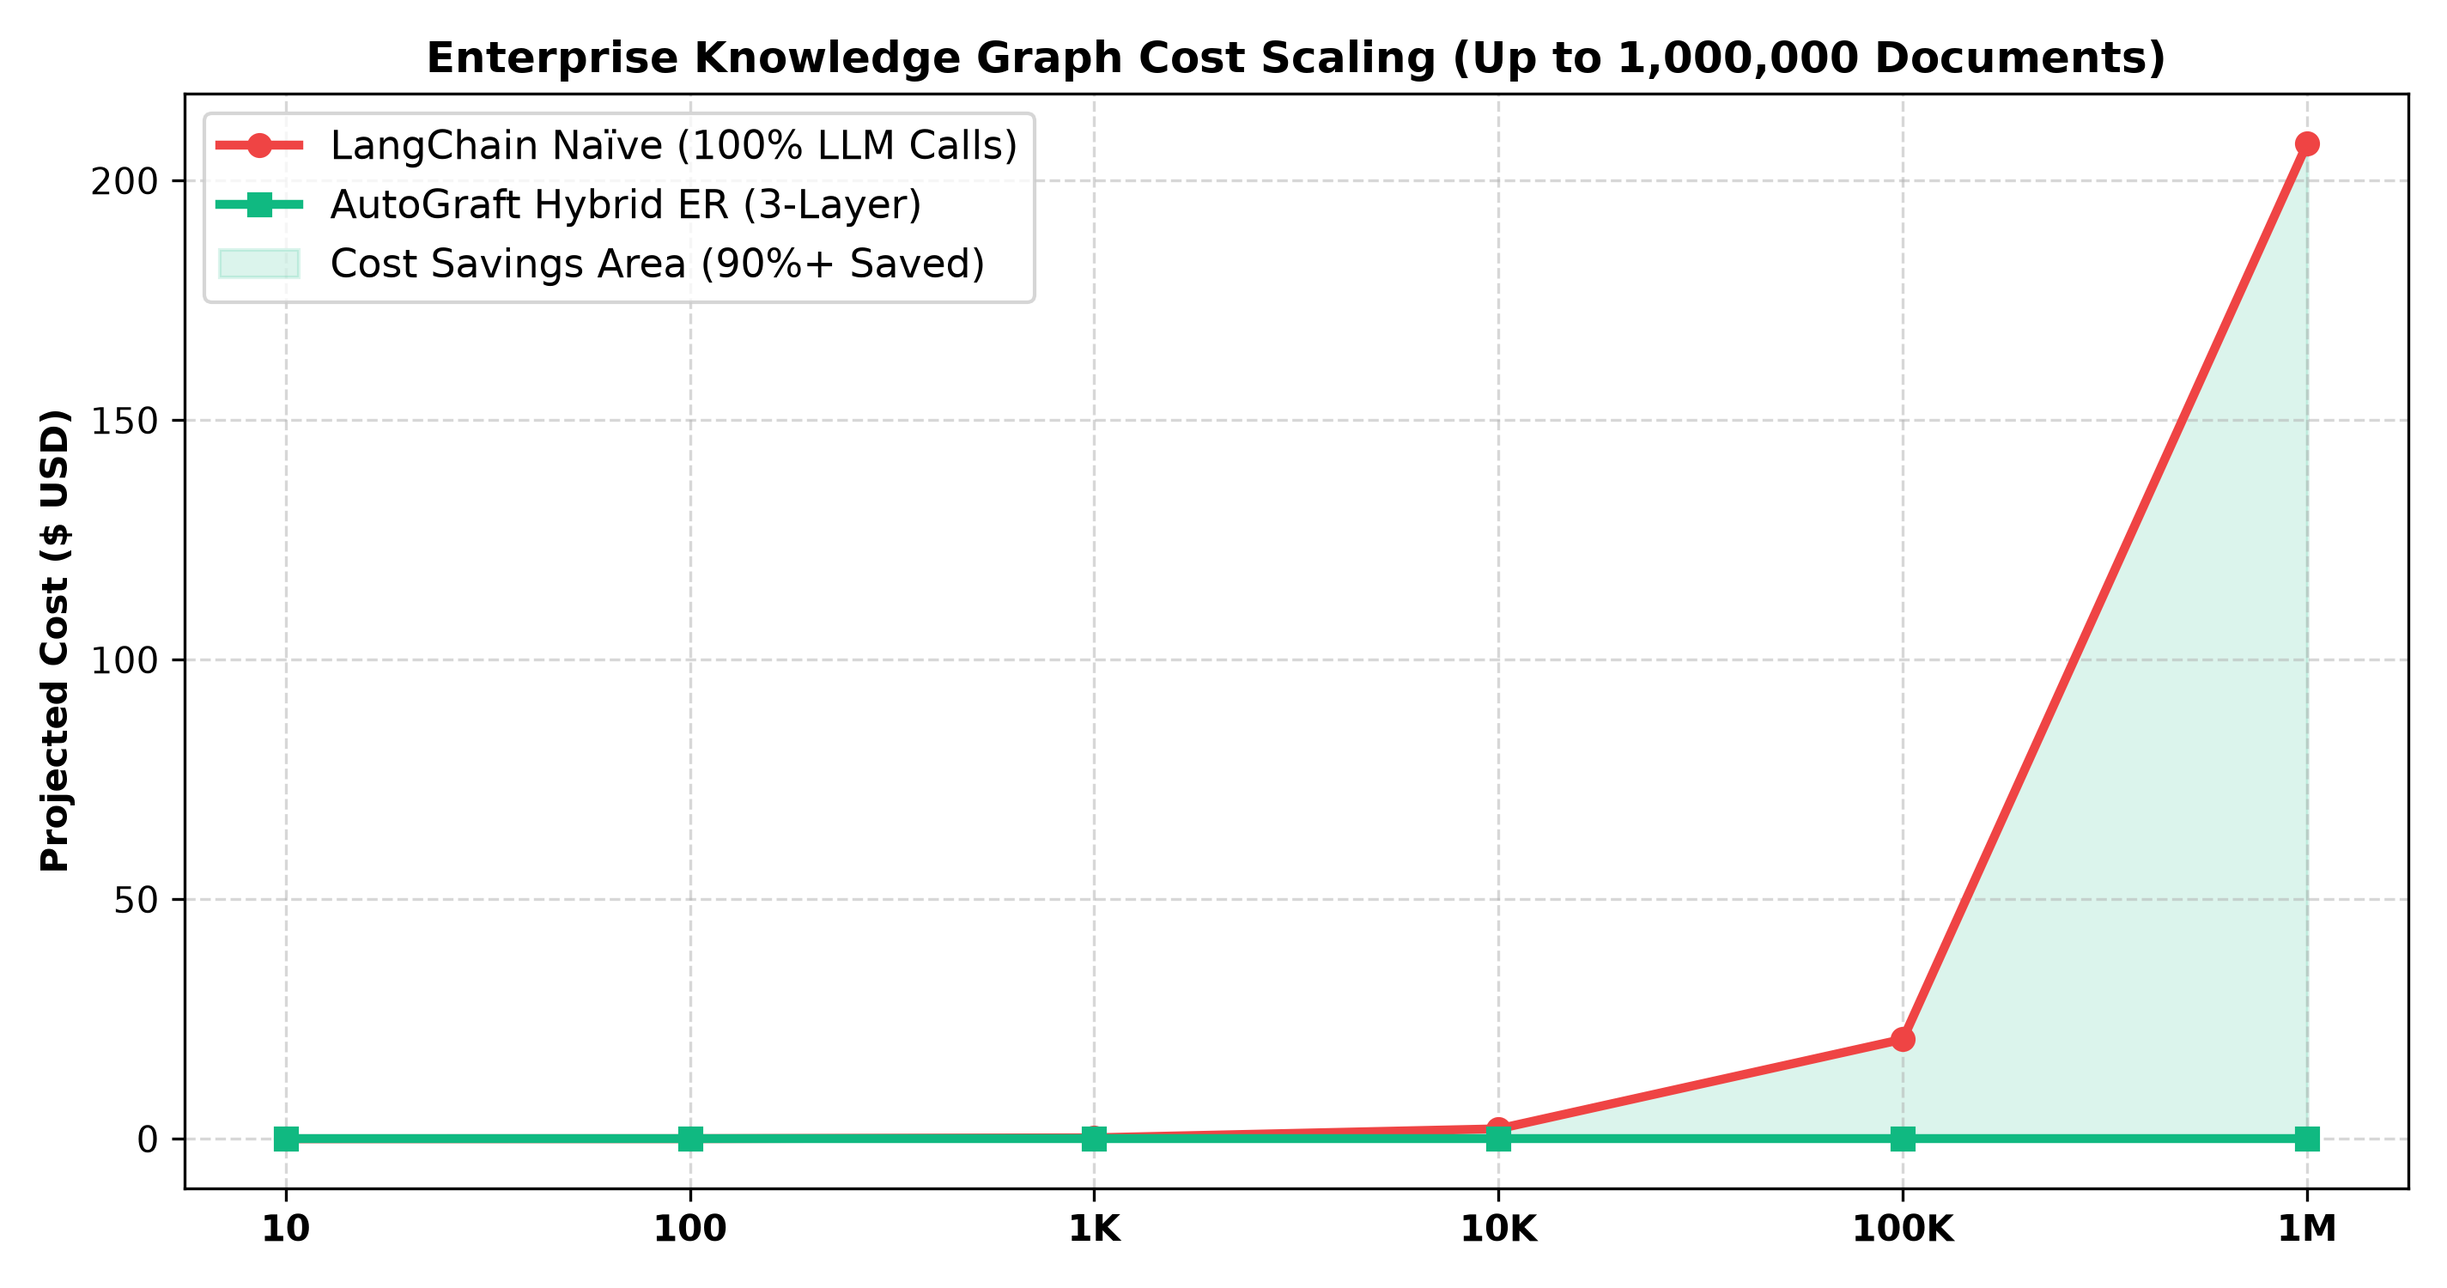
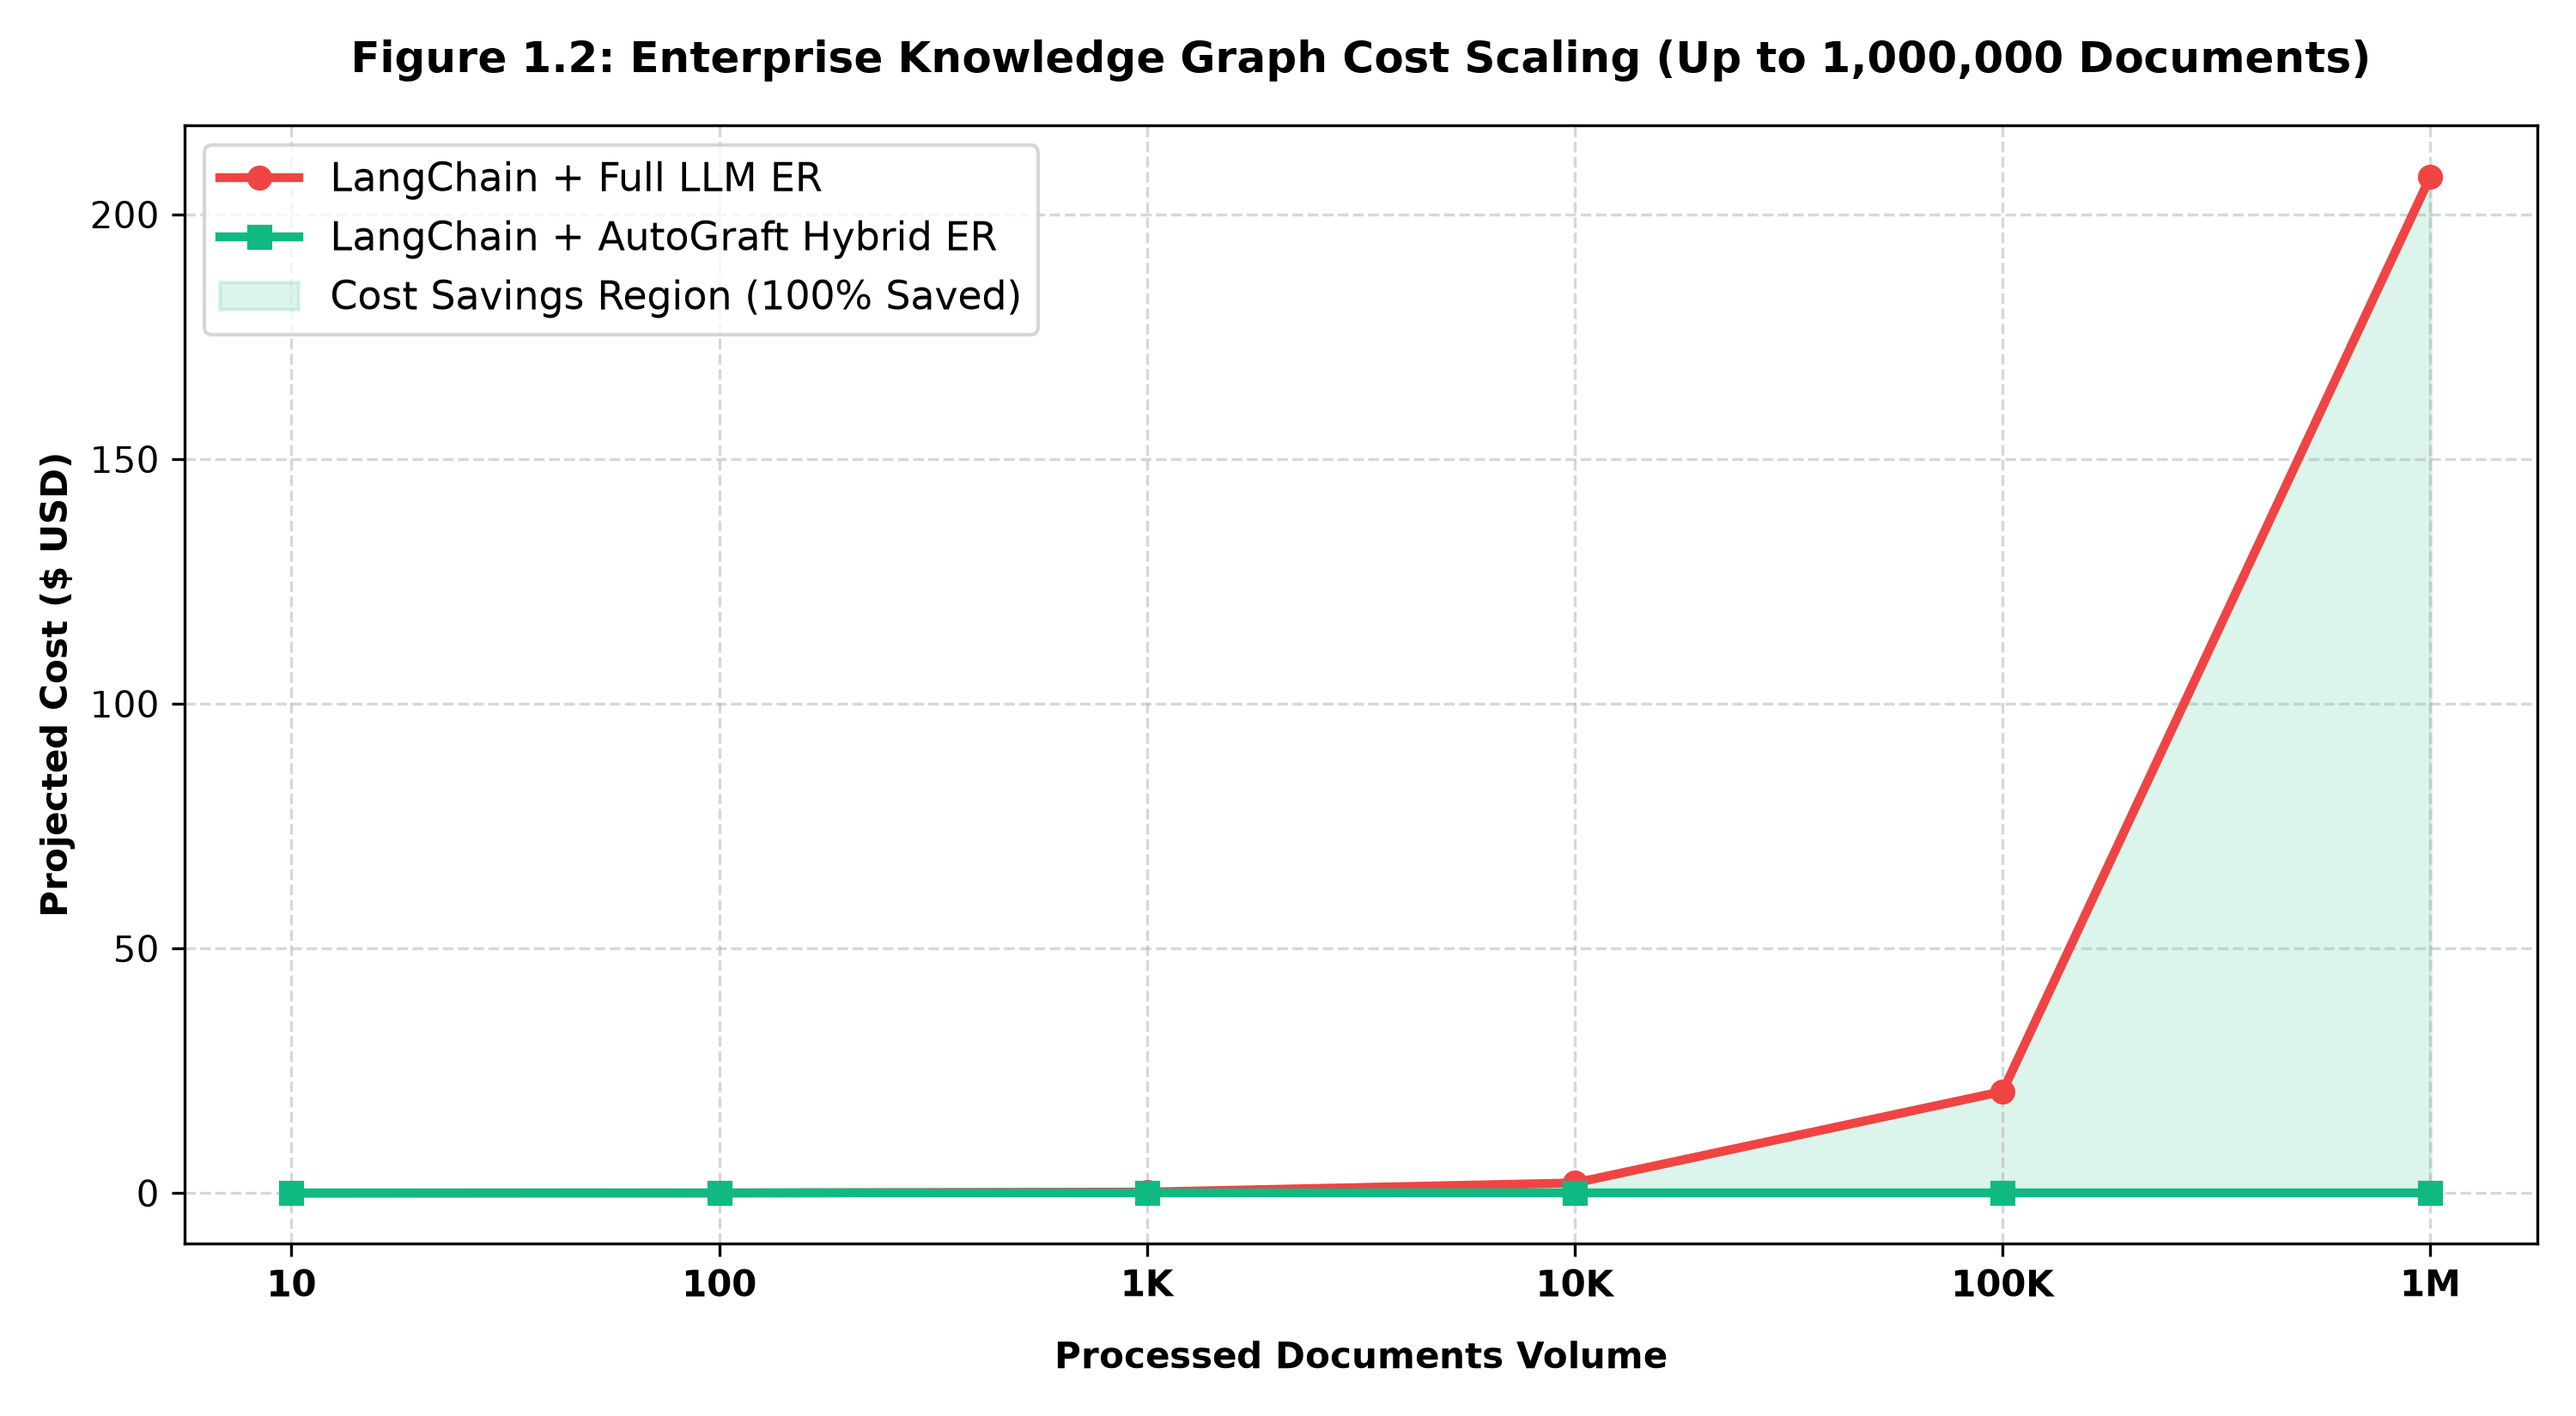
docs: update benchmark chart generator and re-render image assets with 'LangChain + Full LLM ER' labels

diff --git a/benchmark/macro_charts.py b/benchmark/macro_charts.py
@@ -12,22 +12,26 @@ def generate_macro_charts(
     """Generates formal benchmark charts with figure numbering and standardized legends."""
     os.makedirs("benchmark/assets", exist_ok=True)
     colors = ["#EF4444", "#10B981"]
+    labels = ["LangChain + Full LLM ER", "LangChain + AutoGraft"]
 
     # Figure 1.1: Macro Benchmark Metrics Chart
-    fig, axes = plt.subplots(1, 4, figsize=(18, 5))
+    fig, axes = plt.subplots(1, 4, figsize=(19, 5))
     fig.suptitle("Figure 1.1: Macro Enterprise RAG ER Benchmark Metrics (200 Docs / 4 Industries)", fontsize=14, fontweight="bold")
 
-    axes[0].bar(["LangChain", "AutoGraft"], [total_lc_tokens, total_ag_tokens], color=colors, width=0.5)
+    axes[0].bar(labels, [total_lc_tokens, total_ag_tokens], color=colors, width=0.5)
     axes[0].set_title("Total Tokens Consumed", fontweight="bold")
     axes[0].set_xlabel("Architecture Strategy", fontweight="bold")
+    axes[0].tick_params(axis='x', rotation=10)
 
-    axes[1].bar(["LangChain", "AutoGraft"], [total_lc_calls, total_ag_calls], color=colors, width=0.5)
+    axes[1].bar(labels, [total_lc_calls, total_ag_calls], color=colors, width=0.5)
     axes[1].set_title("LLM ER Calls", fontweight="bold")
     axes[1].set_xlabel("Architecture Strategy", fontweight="bold")
+    axes[1].tick_params(axis='x', rotation=10)
 
-    axes[2].bar(["LangChain", "AutoGraft"], [0, total_matches], color=colors, width=0.5)
+    axes[2].bar(labels, [0, total_matches], color=colors, width=0.5)
     axes[2].set_title("Duplicates Avoided (MATCH)", fontweight="bold")
     axes[2].set_xlabel("Architecture Strategy", fontweight="bold")
+    axes[2].tick_params(axis='x', rotation=10)
 
     ind_names = list(industry_metrics.keys())
     match_by_ind = [industry_metrics[ind]["matches"] for ind in ind_names]
@@ -48,8 +52,8 @@ def generate_macro_charts(
     ag_costs = [(v * ag_avg / 1_000_000) * 0.20 for v in volumes]
 
     fig, ax = plt.subplots(figsize=(10, 5.5))
-    ax.plot(range(len(volumes)), lc_costs, "o-", color="#EF4444", linewidth=2.5, label="LangChain Naive (100% LLM Calls)")
-    ax.plot(range(len(volumes)), ag_costs, "s-", color="#10B981", linewidth=2.5, label="AutoGraft Hybrid ER (3-Layer)")
+    ax.plot(range(len(volumes)), lc_costs, "o-", color="#EF4444", linewidth=2.5, label="LangChain + Full LLM ER")
+    ax.plot(range(len(volumes)), ag_costs, "s-", color="#10B981", linewidth=2.5, label="LangChain + AutoGraft Hybrid ER")
     ax.fill_between(range(len(volumes)), lc_costs, ag_costs, color="#10B981", alpha=0.15, label="Cost Savings Region (100% Saved)")
     ax.set_xticks(range(len(volumes)))
     ax.set_xticklabels(["10", "100", "1K", "10K", "100K", "1M"], fontweight="bold")
